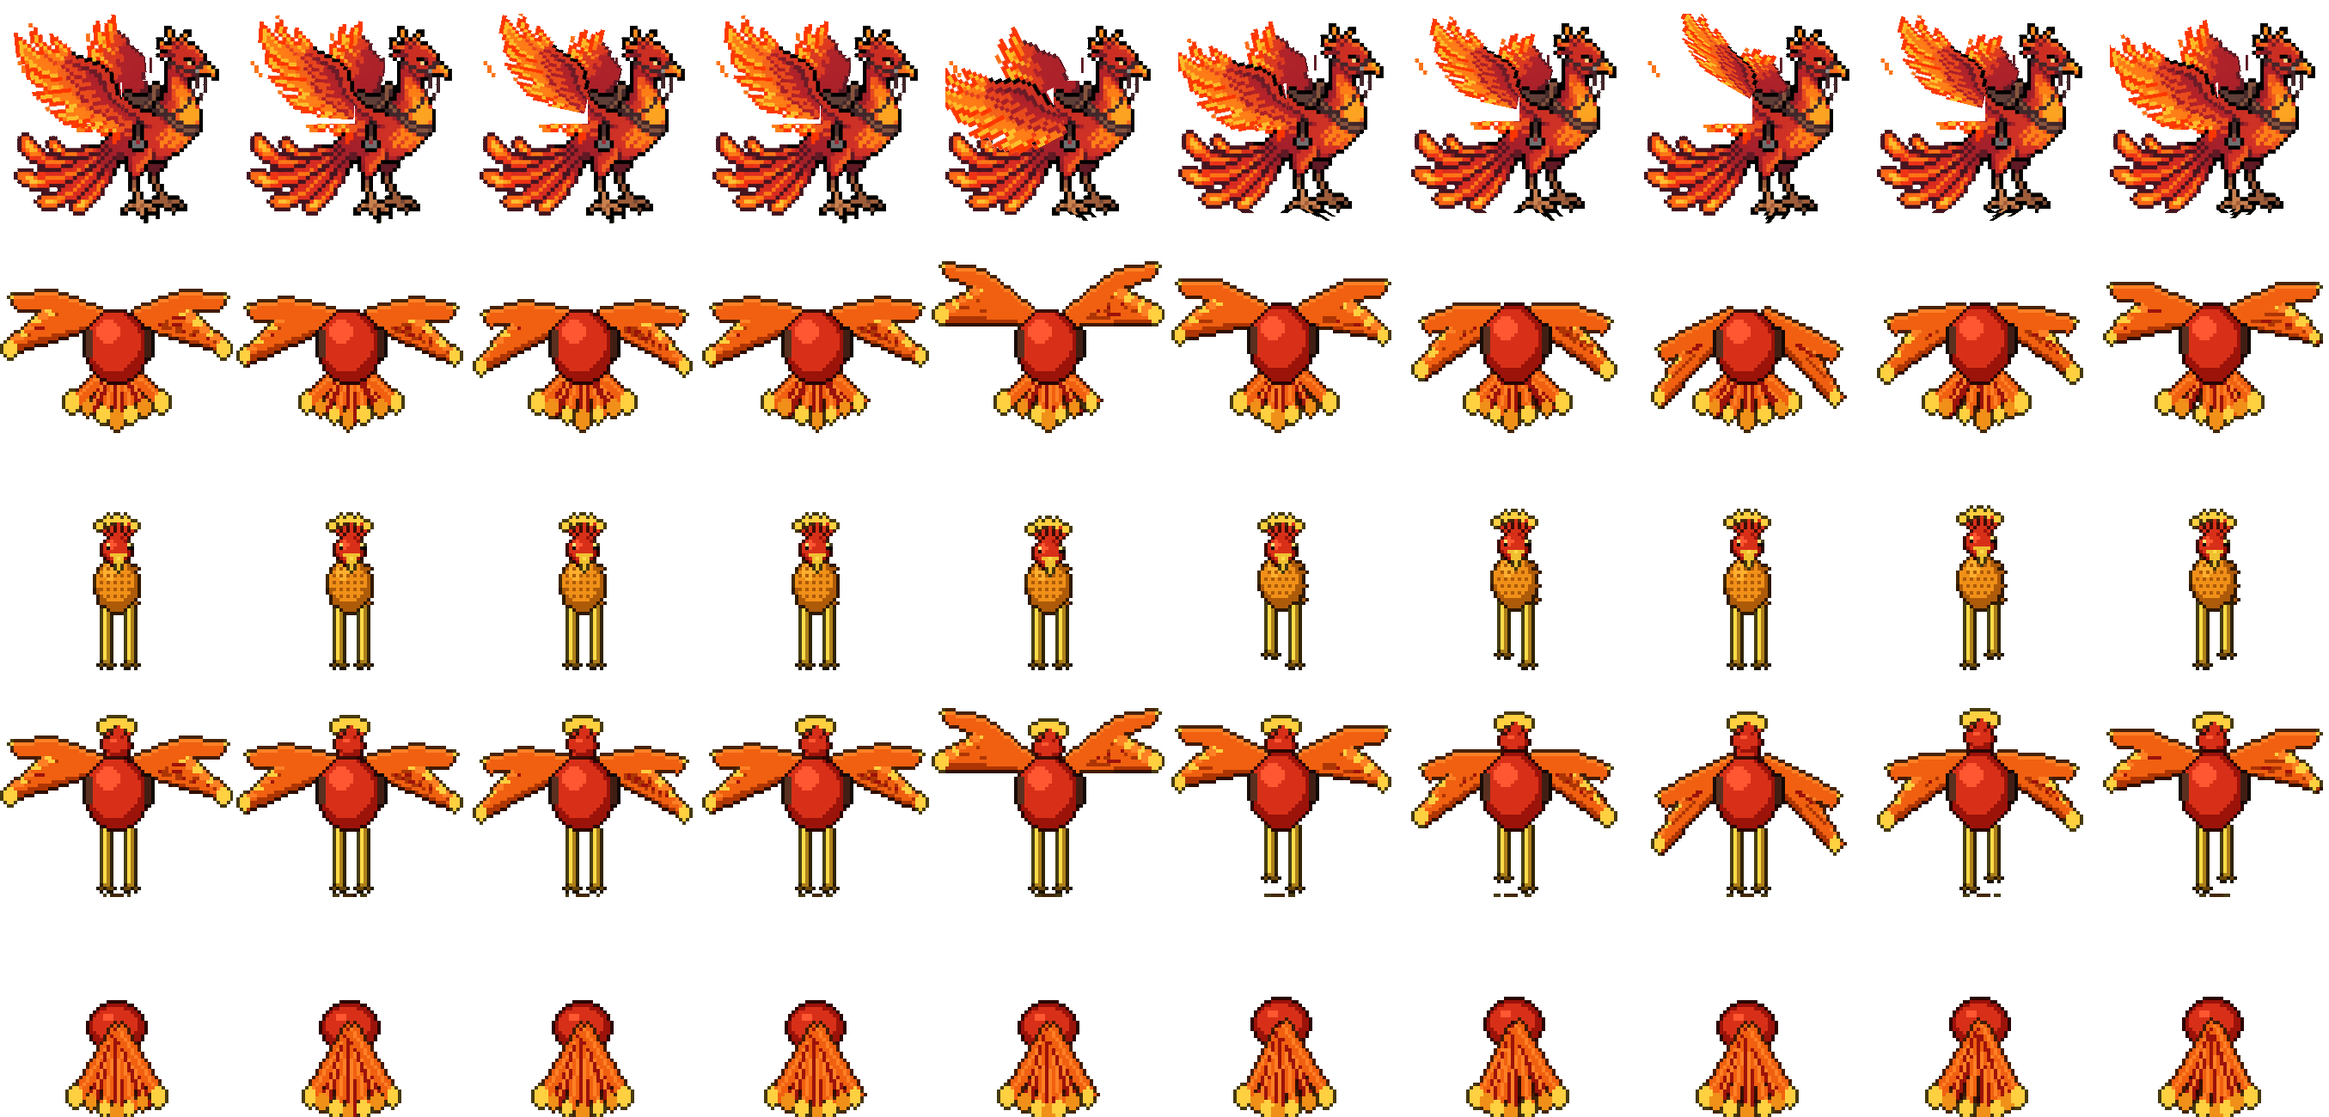
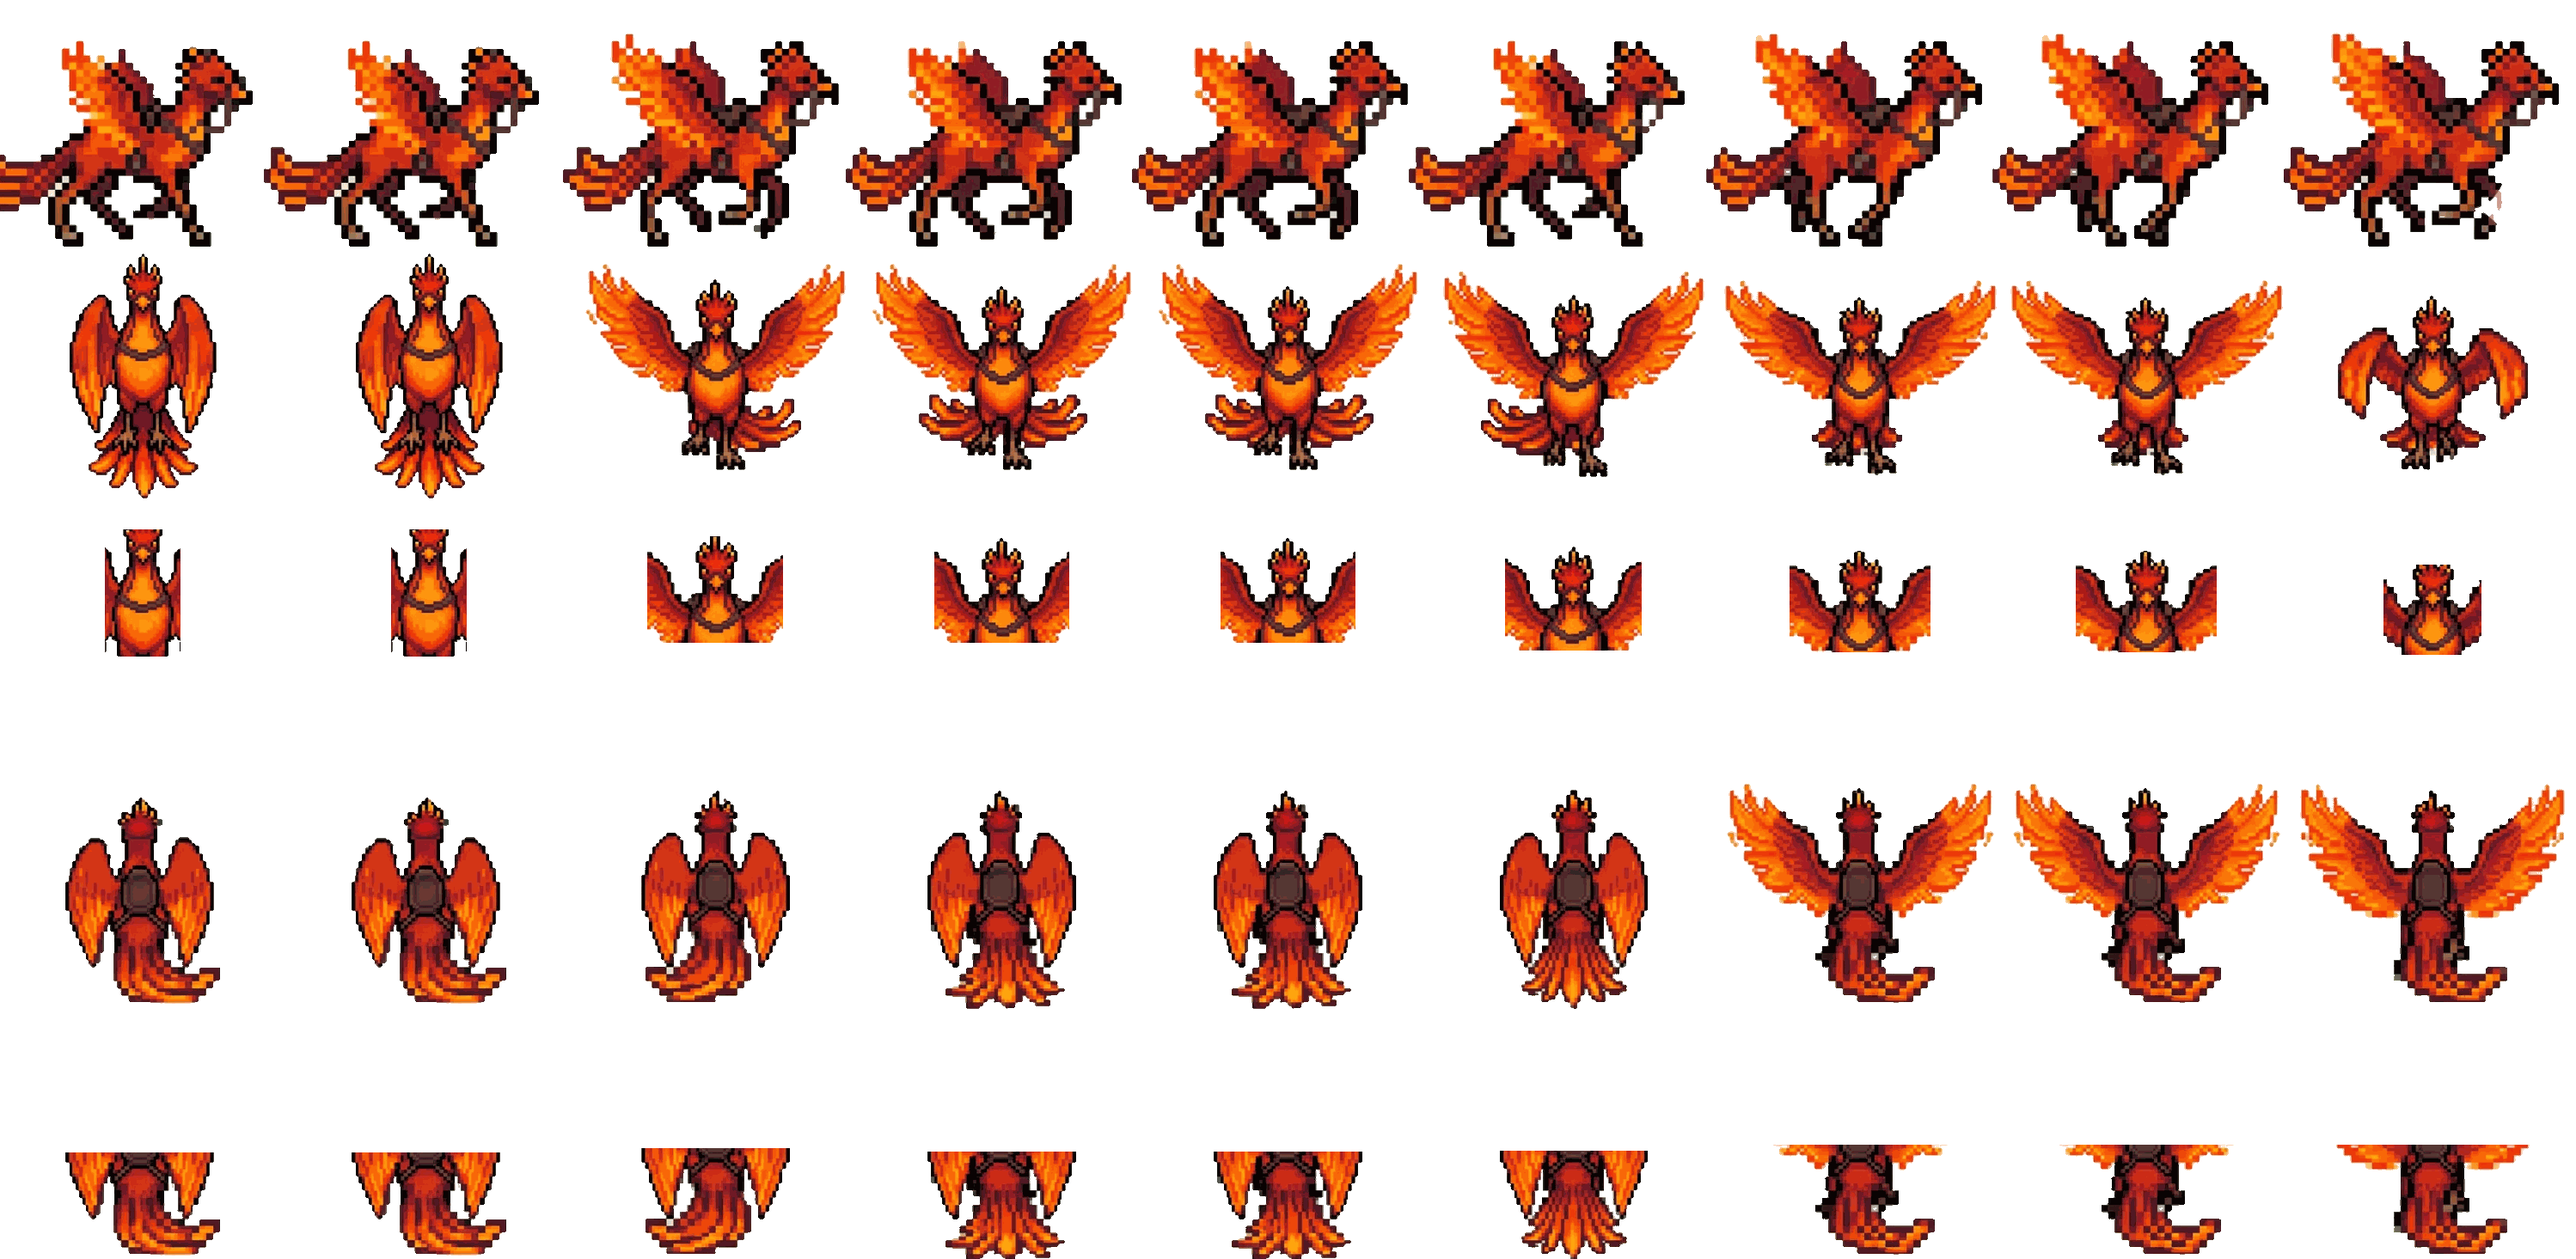
Thanh Long and Phuong Hoang: hand-drawn 4-direction sprites
Colour-based background removal (multi-tone grey background and leg
shadows); wings keep flapping while idle; down-view seats raised so the
rider shows above the head.

Claude-Session: https://claude.ai/code/session_01AqWtbjMjwaw5KPYKGcCy7Z

diff --git a/server/data/changelog.js b/server/data/changelog.js
@@ -4,6 +4,7 @@ const CHANGELOG = [
   {
     date: '02/11/2026',
     items: [
+      '🐉 Thanh Long và Phượng Hoàng có hình 4 hướng mới vẽ tay: dang cánh vỗ theo nhịp ở mọi hướng (cả lúc đứng yên), đuôi uốn lượn khi bay.',
       '🦄 Bạch Mã và Hỏa Kỳ Lân có hình 4 hướng mới vẽ tay: mặt trước, sau lưng, nhìn ngang với dáng chạy; bờm và đuôi đung đưa theo nhịp.',
       '🔧 Sửa Hắc Mã trông như đang bay (móng ngựa giờ chạm đất ở cả 4 hướng). Khung danh hiệu dời lên cao hơn, không còn che tên nhân vật.',
       '🐴 Hắc Mã (ngựa ô truy chiến giáp) có hình 4 hướng mới vẽ tay: mặt trước, sau lưng và nhìn ngang với dáng chạy 8 nhịp, giáp xích, chùm lông đỏ trên mũ.',

diff --git a/tools/mount_art/fourdir.py b/tools/mount_art/fourdir.py
@@ -16,6 +16,9 @@ NR = 8
 CFG = {
     # side=7: khung ngang thứ 8 dính logo góc ảnh -> bỏ; hole: (ngưỡng màu, cỡ tối thiểu) lỗ hở kín giữa chân/cổ cần khoét (thân trắng gần màu nền: ngưỡng thấp)
     'bach_ma': dict(h=100, front=6, back=3, side=7, seat_fx=0.40, seat_dy=8, down=0.16, cut=0.44, ftop=0.15, shadow=None, hole=(9, 250)),
+    # mask='color': nền xám nhạt nhiều tông + bóng chân -> lấy điểm ảnh đậm màu/tối làm hình; fly: cánh vỗ cả lúc đứng yên
+    'thanh_long': dict(h=118, front=6, back=6, side=6, seat_fx=0.50, seat_dy=8, down=0.07, cut=0.46, ftop=0.10, shadow=None, hole=(20, 60), mask='color', fly=True),
+    'phuong_hoang': dict(h=122, front=6, back=6, side=6, seat_fx=0.55, seat_dy=8, down=0.12, cut=0.50, ftop=0.10, shadow=None, hole=(20, 60), mask='color', fly=True),
     'hoa_ky_lan': dict(h=104, front=6, back=6, side=7, seat_fx=0.47, seat_dy=8, down=0.17, cut=0.44, ftop=0.10, shadow=(147, 120, 112), hole=(26, 25)),
 }
 
@@ -35,9 +38,16 @@ def extract(mid, path):
     a = np.asarray(Image.open(path).convert('RGB')).astype(int)
     bg = np.median(np.concatenate([a[:, :10], a[:, -10:]], 1), 1)[:, None, :]
     d = np.abs(a - bg).sum(2)
-    lab, n = nd.label(d < 34)
-    border = set(lab[0, :]) | set(lab[-1, :]) | set(lab[:, 0]) | set(lab[:, -1]); border.discard(0)
-    fg = ~np.isin(lab, list(border))
+    if cfg.get('mask') == 'color':
+        mx, mn = a.max(2), a.min(2)
+        fg = ((mx - mn) > 42) | (mx < 115)
+        fg = nd.binary_fill_holes(nd.binary_closing(fg, iterations=1))
+        fg &= ~(((mx - mn) < 62) & (mn > 120) & (a[..., 1] - a[..., 2] > 18))   # bóng chân xanh-be
+        d = np.where((mx - mn < 28) & (mn > 175), 0, 99)   # lỗ hở kín (màu nền) giữa chân / cánh
+    else:
+        lab, n = nd.label(d < 34)
+        border = set(lab[0, :]) | set(lab[-1, :]) | set(lab[:, 0]) | set(lab[:, -1]); border.discard(0)
+        fg = ~np.isin(lab, list(border))
     if cfg['shadow'] is not None:   # bóng tròn dưới chân (game tự vẽ bóng)
         fg &= np.abs(a - np.array(cfg['shadow'])).sum(2) > 48
     fg = nd.binary_opening(fg, iterations=1)
@@ -118,6 +128,7 @@ def build(mid):
     meta['per'][mid] = {'cell': [CW, CH], 'foot': [CW / 2, int(base) - 3], 'footFB': [CW / 2, int(base) - 3],
                         'frames': {'idle': [0, 1], 'run': [1, NR]}, 'rows': {'side': [0], 'down': [1, 2], 'up': [3, 4]},
                         'scale': 0.5, 'runMs': 95, 'idleMs': 700}
+    if cfg.get('fly'): meta['per'][mid].update({'frames': {'idle': [1, NR], 'run': [1, NR]}, 'idleMs': 190, 'runMs': 110})   # bay: đứng yên vẫn vỗ cánh
     meta['seats'][mid] = seats; meta['seat'][mid] = seats['side']
     open(OUT + 'mounts.json', 'w').write(json.dumps(meta, default=float))
     print(mid, CW, CH, NT, 'K=%.2f' % K)

diff --git a/tools/mount_art/views.py b/tools/mount_art/views.py
@@ -482,6 +482,6 @@ def build(name):
 
 if __name__ == '__main__':
     import sys
-    names = sys.argv[1:] or [k for k in P if k not in ('hac_ma', 'bach_ma', 'hoa_ky_lan')]   # có ảnh 4 hướng vẽ tay: hacma.py, fourdir.py
+    names = sys.argv[1:] or [k for k in P if k not in ('hac_ma', 'bach_ma', 'hoa_ky_lan', 'thanh_long', 'phuong_hoang')]   # có ảnh 4 hướng vẽ tay: hacma.py, fourdir.py
     for nm in names:
         build(nm); print('ok', nm)
